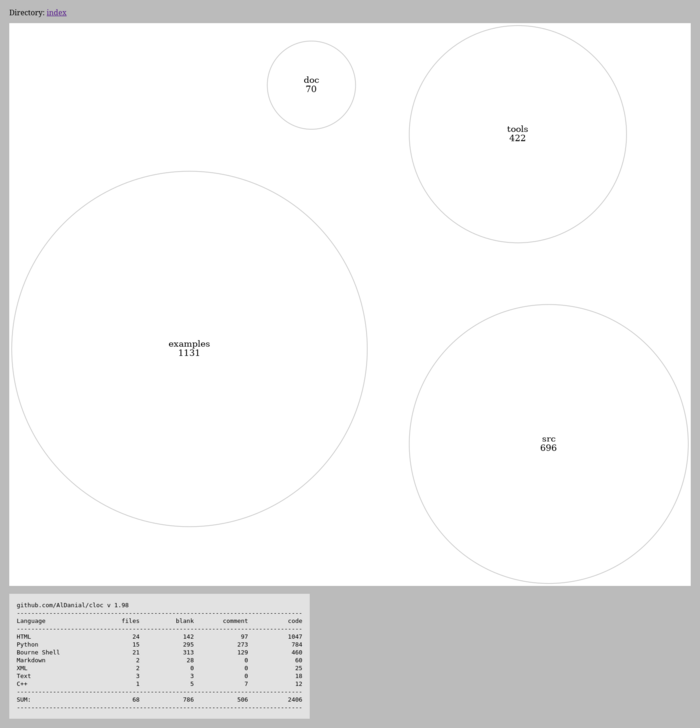
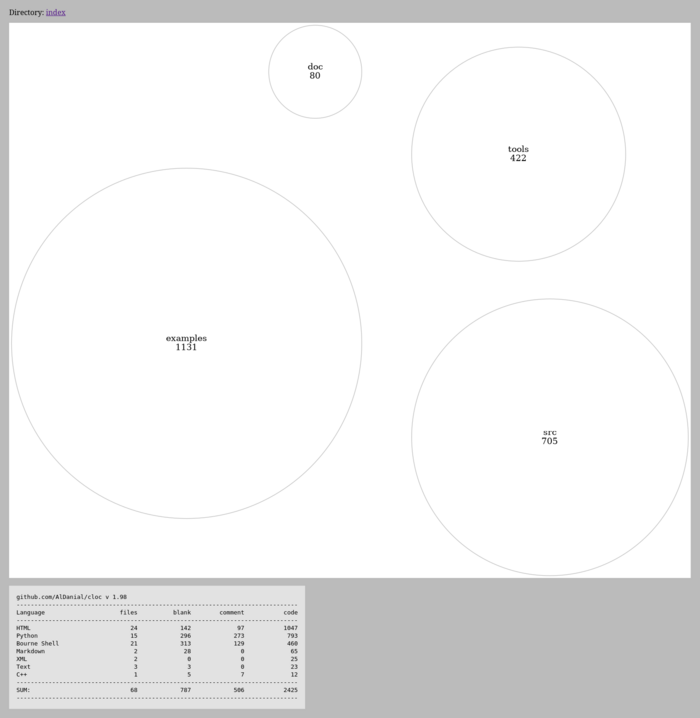
Add include-lang option

diff --git a/examples/project/cloc_tree/graphs/index.html b/examples/project/cloc_tree/graphs/index.html
@@ -38,13 +38,13 @@ Project is distributed under the BSD 3-Clause license.
         <img src="index.png" alt="graph" usemap="#index">
 <map id="index" name="index">
 <area shape="circle" id="node1" href="index_src.html" title="node: src
-696" alt="" coords="1165,909,302"/>
+705" alt="" coords="1186,909,303"/>
 <area shape="circle" id="node2" href="index_tools.html" title="node: tools
-422" alt="" coords="1099,240,234"/>
+422" alt="" coords="1117,288,235"/>
 <area shape="circle" id="node3" href="index_doc.html" title="node: doc
-70" alt="" coords="653,134,95"/>
+80" alt="" coords="671,107,102"/>
 <area shape="circle" id="node4" href="index_examples.html" title="node: examples
-1131" alt="" coords="389,704,384"/>
+1131" alt="" coords="389,703,384"/>
 </map>
 
 
@@ -54,14 +54,14 @@ Project is distributed under the BSD 3-Clause license.
 Language                     files          blank        comment           code
 -------------------------------------------------------------------------------
 HTML                            24            142             97           1047
-Python                          15            295            273            784
+Python                          15            296            273            793
 Bourne Shell                    21            313            129            460
-Markdown                         2             28              0             60
+Markdown                         2             28              0             65
 XML                              2              0              0             25
-Text                             3              3              0             18
+Text                             3              3              0             23
 C++                              1              5              7             12
 -------------------------------------------------------------------------------
-SUM:                            68            786            506           2406
+SUM:                            68            787            506           2425
 -------------------------------------------------------------------------------
 </pre>
 </body>

diff --git a/examples/project/cloc_tree/graphs/index_src.html b/examples/project/cloc_tree/graphs/index_src.html
@@ -38,9 +38,9 @@ Project is distributed under the BSD 3-Clause license.
         <img src="index_src.png" alt="graph" usemap="#index_src">
 <map id="index_src" name="index_src">
 <area shape="circle" id="node1" href="index_src_clocdirtree.html" title="node: clocdirtree
-480" alt="" coords="389,389,384"/>
+489" alt="" coords="389,389,384"/>
 <area shape="circle" id="node2" href="index_src_testclocdirtree.html" title="node: testclocdirtree
-166" alt="" coords="1150,618,226"/>
+166" alt="" coords="1148,620,224"/>
 </map>
 
 
@@ -49,11 +49,11 @@ Project is distributed under the BSD 3-Clause license.
 -------------------------------------------------------------------------------
 Language                     files          blank        comment           code
 -------------------------------------------------------------------------------
-Python                          14            261            250            678
+Python                          14            262            250            687
 Bourne Shell                     3             22             16             17
 Text                             1              1              0              1
 -------------------------------------------------------------------------------
-SUM:                            18            284            266            696
+SUM:                            18            285            266            705
 -------------------------------------------------------------------------------
 </pre>
 </body>

diff --git a/examples/project/cloc_tree/graphs/index_doc.html b/examples/project/cloc_tree/graphs/index_doc.html
@@ -42,10 +42,10 @@ no subdirs with results
 Language                     files          blank        comment           code
 -------------------------------------------------------------------------------
 Bourne Shell                     2             28             11             45
-Markdown                         1              2              0             14
-Text                             1              2              0             11
+Markdown                         1              2              0             19
+Text                             1              2              0             16
 -------------------------------------------------------------------------------
-SUM:                             4             32             11             70
+SUM:                             4             32             11             80
 -------------------------------------------------------------------------------
 </pre>
 </body>

diff --git a/examples/project/cloc_tree/graphs/index_src_clocdirtree.html b/examples/project/cloc_tree/graphs/index_src_clocdirtree.html
@@ -41,9 +41,9 @@ no subdirs with results
 -------------------------------------------------------------------------------
 Language                     files          blank        comment           code
 -------------------------------------------------------------------------------
-Python                           8            192            184            480
+Python                           8            193            184            489
 -------------------------------------------------------------------------------
-SUM:                             8            192            184            480
+SUM:                             8            193            184            489
 -------------------------------------------------------------------------------
 </pre>
 </body>

diff --git a/src/clocdirtree/main.py b/src/clocdirtree/main.py
@@ -50,11 +50,15 @@ def process_cloc(args):
         dirs_list.append(item)
 
     cloc_params_dict = {}
-    clockexclude = [item.replace("*", ".*") for item in args.exclude]
-    if clockexclude:
+    cloc_exclude = [item.replace("*", ".*") for item in args.exclude]
+    if cloc_exclude:
         cloc_params_dict["--fullpath"] = None
-        cloc_params_dict["--not-match-d"] = "|".join(clockexclude)
-        cloc_params_dict["--not-match-f"] = "|".join(clockexclude)
+        cloc_params_dict["--not-match-d"] = "|".join(cloc_exclude)
+        cloc_params_dict["--not-match-f"] = "|".join(cloc_exclude)
+
+    cloc_include_langs = ",".join(args.include_lang)
+    if cloc_include_langs:
+        cloc_params_dict["--include-lang"] = cloc_include_langs
 
     cloc_data_dict = cloc_dirs(dirs_list, cloc_params_dict=cloc_params_dict)
     cloc_data_dict = {item_key.removeprefix(run_dir): item_val for item_key, item_val in cloc_data_dict.items()}
@@ -228,7 +232,13 @@ def main():
         "--exclude",
         nargs="+",
         default=[],
-        help="Space separated list of directories to exclude. e.g. --exclude '/usr/*' '*/tmp/*'",
+        help="Space separated list of files and directories to exclude. e.g. --exclude '/usr/*' '*/tmp/*'",
+    )
+    parser.add_argument(
+        "--include-lang",
+        nargs="+",
+        default=[],
+        help="Space separated list of languages to include.",
     )
 
     ## =================================================

diff --git a/src/clocdirtree/clocparser.py b/src/clocdirtree/clocparser.py
@@ -62,7 +62,7 @@ def cloc_dirs(dirs_list, exclude_languages=None, cloc_params_dict=None):
 
         for dir_path in dirs_list:
             async_result = process_pool.apply_async(
-                cloc_directory, [dir_path, "raw", exclude_languages, cloc_params_dict]
+                execute_cloc, [dir_path, "raw", exclude_languages, cloc_params_dict]
             )
             result_queue.append((dir_path, async_result))
 
@@ -76,7 +76,7 @@ def cloc_dirs(dirs_list, exclude_languages=None, cloc_params_dict=None):
     return ret_dict
 
 
-def cloc_directory(sources_dir, mode, exclude_languages=None, cloc_params_dict=None):
+def execute_cloc(sources_dir, mode, exclude_languages=None, cloc_params_dict=None):
     _LOGGER.info(f"counting code on: {sources_dir}")  # pylint: disable=W1203
 
     command = ["cloc", "--sum-one", "--hide-rate"]

diff --git a/doc/cmdargs.md b/doc/cmdargs.md
@@ -2,6 +2,7 @@
 ```
 usage: python3 -m clocdirtree.main [-h] [-la] --clocdir CLOCDIR --outdir
                                    OUTDIR [--exclude EXCLUDE [EXCLUDE ...]]
+                                   [--include-lang INCLUDE_LANG [INCLUDE_LANG ...]]
 
 dump cloc data and navigate it as directory tree
 
@@ -11,6 +12,10 @@ options:
   --clocdir CLOCDIR     Directory to analyze by 'cloc' (default: )
   --outdir OUTDIR       Output directory (default: )
   --exclude EXCLUDE [EXCLUDE ...]
-                        Space separated list of directories to exclude. e.g.
-                        --exclude '/usr/*' '*/tmp/*' (default: [])
+                        Space separated list of files and directories to
+                        exclude. e.g. --exclude '/usr/*' '*/tmp/*' (default:
+                        [])
+  --include-lang INCLUDE_LANG [INCLUDE_LANG ...]
+                        Space separated list of languages to include.
+                        (default: [])
 ```
